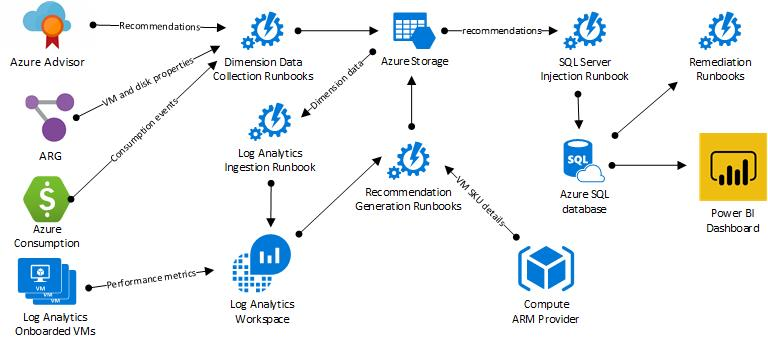
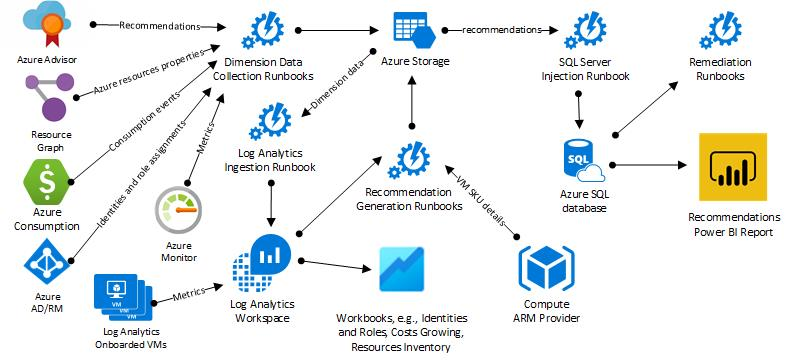
Updated documentation for fall 2021 release

Changed region(s): [[0.0, 0.0, 0.8438, 0.9855], [0.6875, 0.029, 1.0, 0.6957], [0.4062, 0.8696, 0.5938, 0.9855]]

diff --git a/README.md b/README.md
@@ -24,14 +24,18 @@ Besides collecting **all Azure Advisor recommendations**, AOE includes other cus
 
 * Cost
     * Augmented Advisor Cost VM right-size recommendations, with fit score based on Virtual Machine guest OS metrics (collected by Log Analytics agents) and Azure properties
+    * Underutilized VM Scale Sets
     * Unattached disks
     * Standard Load Balancers without backend pool
     * Application Gateways without backend pool
     * VMs deallocated since a long time ago (forgotten VMs)
     * Orphaned Public IPs
 * High Availability
-    * Virtual Machine high availability (availability set, managed disks, storage account distribution when using unmanaged disks)
+    * Virtual Machine high availability (availability zones count, availability set, managed disks, storage account distribution when using unmanaged disks)
+    * VM Scale Set high availability (availability zones count, managed disks)
     * Availability Sets structure (fault/update domains count)
+* Performance
+    * VM Scale Sets constrained by lack of compute resources
 * Security
     * Service Principal credentials/certificates without expiration date
     * NSG rules referring to empty or inexisting subnets
@@ -78,6 +82,18 @@ With AOE's Log Analytics Workbooks, you can explore many perspectives over the d
 
 ## <a id="releases"></a>Releases ##
 
+* 12/2021
+    * Several new recommendations added
+        * **Cost** - Underutilized VM Scale Sets
+        * **Performance** - VM Scale Sets constrained by lack of compute resources
+        * **High Availability** - VM Scale Sets not using managed disks
+        * **High Availability** - Virtual Machines or VM Scale Sets not leveraging multiple Availability Zones
+    * Azure AD exports migrated to the Microsoft Graph SDK (preparing for the deprecation of Azure AD Graph)
+    * Automation Runbooks use by default Managed Identity authentication (no more certificate-based Run As Accounts)
+    * Support for resetting Automation schedules with the `Reset-AutomationSchedules.ps1` script
+    * Workbooks usability and content improvements
+    * Runbook performance improvements
+    * Several bug fixes
 * 09/2021
     * Several new recommendations added
         * **Operational Excellence** - Subscriptions close to the maximum limit of RBAC assignments
@@ -155,10 +171,10 @@ read the whole blog series dedicated to this project, starting [here](https://te
 ### Requirements
 
 * A supported Azure subscription (see the [FAQs](#faq))
-* Azure Powershell 4.5.0+
-* Microsoft.Graph.Authentication, Microsoft.Graph.Identity.DirectoryManagement and Microsoft.Graph.Applications PowerShell modules
-* A user account with Owner permissions over the chosen subscription and enough privileges to register Azure AD applications ([see details](https://docs.microsoft.com/en-us/azure/automation/manage-runas-account#permissions)), so that the Automation Run As Account is granted the required privileges over the subscription (Reader) and deployment resource group (Contributor)
-* (Optional) A user account with at least Privileged Role Administrator permissions over the Azure AD tenant, so that the Run As Account is granted the required privileges over Azure AD (Global Reader)
+* Azure Powershell 6.6.0+
+* Microsoft.Graph.Authentication and Microsoft.Graph.Identity.DirectoryManagement PowerShell modules
+* A user account with Owner permissions over the chosen subscription, so that the Automation Managed Identity is granted the required privileges over the subscription (Reader) and deployment resource group (Contributor)
+* (Optional) A user account with at least Privileged Role Administrator permissions over the Azure AD tenant, so that the Managed Identity is granted the required privileges over Azure AD (Global Reader)
 
 During deployment, you'll be asked several questions. You must plan for the following:
 
@@ -174,13 +190,13 @@ The simplest, quickest and recommended method for installing AOE is by using the
 1. Open Azure Cloud Shell (PowerShell)
 2. Run `git clone https://github.com/helderpinto/AzureOptimizationEngine.git azureoptimizationengine`
 3. Run `cd azureoptimizationengine`
-4. (optional) Run `Install-Module Microsoft.Graph.Authentication,Microsoft.Graph.Identity.DirectoryManagement,Microsoft.Graph.Applications` - this is required to grant the Global Reader role to the Automation Run As Account in Azure AD
+4. (optional) Run `Install-Module Microsoft.Graph.Authentication,Microsoft.Graph.Identity.DirectoryManagement` - this is required to grant the Global Reader role to the Automation Run As Account in Azure AD
 5. Run `.\Deploy-AzureOptimizationEngine.ps1`
 6. Input your deployment options and let the deployment finish (it will take less than 5 minutes)
 
 If the deployment fails for some reason, you can simply repeat it, as it is idempotent. The same if you want to upgrade a previous deployment with the latest version of the repo. You just have to keep the same deployment options. _Cool feature_: the deployment script persists your previous deployment options and lets you reuse it! 
 
-If you don't want to use Azure Cloud Shell and prefer instead to run the deployment from your workstation's file system, you must first install the Az Powershell module (instructions [here](https://docs.microsoft.com/en-us/powershell/azure/install-az-ps)) and also the Microsoft.Graph modules (instructions [here](https://docs.microsoft.com/en-us/graph/powershell/installation)). **IMPORTANT**: don't forget to call the deployment script from a PowerShell **elevated prompt** (by the way, Azure Cloud Shell always runs elevated).
+If you don't want to use Azure Cloud Shell and prefer instead to run the deployment from your workstation's file system, you must first install the Az Powershell module (instructions [here](https://docs.microsoft.com/en-us/powershell/azure/install-az-ps)) and also the Microsoft.Graph modules (instructions [here](https://docs.microsoft.com/en-us/graph/powershell/installation)).
 
 If you choose to deploy all the dependencies from your own local repository, you must publish the solution files into a publicly reachable URL. If you're using a Storage Account private container, you must also specify a SAS token (see syntax and example below)
 
@@ -231,6 +247,22 @@ In the context of augmented VM right-size recommendations, you may have your VMs
 For Advisor Cost recommendations, the AOE's default configuration produces percentile 99th VM metrics aggregations, but you can adjust those to be less conservative. There are also adjustable metrics thresholds that are used to compute the fit score. The default thresholds values are 30% for CPU (5% for shutdown recommendations), 50% for memory (100% for shutdown) and 750 Mbps for network bandwidth (10 Mbps for shutdown). All the adjustable configurations are available as Azure Automation variables (for example, `AzureOptimization_PerfPercentile*` and `AzureOptimization_PerfThreshold*`).
 
 For all the available customization details, check [Customizing the Azure Optimization Engine](./docs/customizing-aoe.md).
+
+### Changing the schedules for the exports and recommendations runbooks
+
+By default, the base time for the AOE Automation schedules is set as the deployment time. Soon after the initial deployment completes, the exports, ingests and recommendations runbooks will run according to the engine's default schedules. For example, if you deploy AOE on a Monday at 11:00 a.m., you will get new recommendations every Monday at 2:30 p.m.. If this schedule, for some reason, does not fit your needs, you can reset it to the time that better suits you, by using the `Reset-AutomationSchedules.ps1` script. You just have to call the script following the syntax below and answer the input requests:
+
+```powershell
+./Reset-AutomationSchedules.ps1 -AutomationAccountName <AOE automation account> -ResourceGroupName <AOE resource group> [-AzureEnvironment <AzureChinaCloud|AzureUSGovernment|AzureGermanCloud|AzureCloud>]
+```
+
+The base time you choose must be in UTC and must be defined according to the week day and hour you want recommendations to be generated. You must deduce 3h30m from the time you choose, because the base time defines the schedules for all the dependent automation runbooks that must run before the recommendations are generated. For example, let's say you want recommendations to be generated every Monday at 8h30 a.m.; the base time will be the next calendar date falling on a Monday, at 5h00 a.m.. The format of the date you choose must be YYYY-MM-dd HH:mm:ss, e.g., 2022-01-03 05:00:00.
+
+The script will also ask you to enter, **if needed**, the Hybrid Worker Group you want the runbooks to run in (see the next sub-section).
+
+### Changing the runbooks execution context to Hybrid Worker
+
+By default, AOE Automation runbooks are executed in the context of the Azure Automation sandbox. If you face performance issues due to the memory limits of the Automation sandbox or decide to implement private endpoints for the Storage Account or SQL Database, to harden AOE's security, you will need to execute runbooks from a Hybrid Worker (an Azure or on-premises Virtual Machine with the Automation Hybrid Worker extension). To change the execution context for the AOE runbooks, you must use the `Reset-AutomationSchedules.ps1` script. See how to use the script in the previous sub-section and, after setting the runbooks execution base time, enter the Hybrid Worker Group name you want the runbooks to run in.
 
 ### Visualizing recommendations with Power BI
 

diff --git a/docs/customizing-aoe.md b/docs/customizing-aoe.md
@@ -9,10 +9,13 @@ There are many customization options available in AOE, in the form of Azure Auto
 * `AzureOptimization_PerfPercentileDisk` - The default percentile for disk IO/throughput metrics aggregations is 99. The lower the percentile, the less conservative will be VM right-size fit score algorithm.
 * `AzureOptimization_PerfPercentileMemory` - The default percentile for memory metrics aggregations is 99. The lower the percentile, the less conservative will be VM right-size fit score algorithm.
 * `AzureOptimization_PerfPercentileNetwork` - The default percentile for network metrics aggregations is 99. The lower the percentile, the less conservative will be VM right-size fit score algorithm.
-* `AzureOptimization_PerfThresholdCpuPercentage` - The CPU threshold (in % Processor Time) above which the VM right-size fit score will decrease.
+* `AzureOptimization_PerfThresholdCpuPercentage` - The CPU threshold (in % Processor Time) above which the VM right-size fit score will decrease or below which the VM scale set right-size Cost recommendation will trigger.
 * `AzureOptimization_PerfThresholdCpuShutdownPercentage` - The CPU threshold (in % Processor Time) above which the VM right-size fit score will decrease (_shutdown recommendations only_).
-* `AzureOptimization_PerfThresholdMemoryPercentage` - The memory threshold (in % Used Memory) above which the VM right-size fit score will decrease.
+* `AzureOptimization_PerfThresholdCpuDegradedMaxPercentage` - The CPU threshold (Maximum observed in % Processor Time) above which the VM scale set right-size Performance recommendation will trigger.
+* `AzureOptimization_PerfThresholdCpuDegradedAvgPercentage` - The CPU threshold (Average observed in % Processor Time) above which the VM scale set right-size Performance recommendation will trigger.
+* `AzureOptimization_PerfThresholdMemoryPercentage` - The memory threshold (in % Used Memory) above which the VM right-size fit score will decrease or below which the VM scale set right-size Cost recommendation will trigger.
 * `AzureOptimization_PerfThresholdMemoryShutdownPercentage` - The memory threshold (in % Used Memory) above which the VM right-size fit score will decrease (_shutdown recommendations only_).
+* `AzureOptimization_PerfThresholdMemoryDegradedPercentage` - The memory threshold (in % Used Memory) above which the VM scale set right-size Performance recommendation will trigger.
 * `AzureOptimization_PerfThresholdNetworkMbps` - The network threshold (in Total Mbps) above which the VM right-size fit score will decrease.
 * `AzureOptimization_PerfThresholdNetworkShutdownMbps` - The network threshold (in Total Mbps) above which the VM right-size fit score will decrease (_shutdown recommendations only_).
 * `AzureOptimization_RecommendAdvisorPeriodInDays` - The interval in days to look for Advisor recommendations in the Log Analytics repository - the default is 7, as Advisor recommendations are collected once a week.
